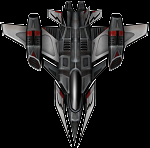
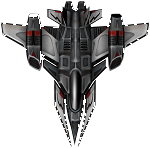
Added fighter 4. See Level 1 for example.

diff --git a/GameApp/src/gameapp/Enemy/Villain.java b/GameApp/src/gameapp/Enemy/Villain.java
@@ -5,14 +5,14 @@ package gameapp.Enemy;
  * @author Kurt
  */
 public class Villain {
-    private static final String[] NAME = {"Fighter1", "Fighter2", "Boss1"};
-    private static final int[] LEVEL = {0, 1, 2};
-    private static final double[] RUN = {3.5, 3.0, 2.0};
-    private static final double[] RISE = {0, 0, 0};
-    private static final int[] HEALTH = {200, 300, 5000};
-    private static final double[] FIRE_RATE = {0.98, 0.95, 0.95};
-    private static final int[] WEAPON = {0, 0, 0};
-    //private int damage[] = {20, 35};
+    private static final String[] NAME = {"Fighter1", "Fighter2", "Boss1", "Fighter4"};
+    private static final int[] LEVEL = {0, 1, 2, 0};
+    private static final double[] RUN = {3.5, 3.0, 2.0, 4.5};
+    private static final double[] RISE = {0, 0, 0, 0};
+    private static final int[] HEALTH = {200, 300, 5000, 100};
+    private static final double[] FIRE_RATE = {0.98, 0.95, 0.95, 0.98};
+    private static final int[] WEAPON = {0, 0, 0, 0};
+    private static final int[] DAMAGE = {20, 20, 25, 10};
     
     public static String getEnemyName(int type){
         return NAME[type];
@@ -41,9 +41,10 @@ public class Villain {
     public static int getWeapon(int type){
         return WEAPON[type];
     }
-    /*public int getDamage(int type){
-        return damage[type];
-    }*/
+    
+    public int getDamage(int type){
+        return DAMAGE[type];
+    }
     
     public static int getEnemyCount(){
         return NAME.length;

diff --git a/GameApp/src/gameapp/General/GameField.java b/GameApp/src/gameapp/General/GameField.java
@@ -5,6 +5,7 @@ import gameapp.Projectile.Buff;
 import gameapp.Effect.Effect;
 import gameapp.Enemy.Enemy;
 import gameapp.Enemy.Boss;
+import gameapp.Enemy.Fighter4;
 import gameapp.Player.Player;
 import gameapp.Projectile.Projectile;
 import gameapp.Projectile.Powerup;
@@ -90,10 +91,16 @@ public final class GameField extends JPanel implements KeyListener {
     }
 
     public void addEnemy(int type) {
-        if(type == 2){
-            enemies.add(new Boss(getWidth(), getHeight(), type));
-        } else {
-            enemies.add(new Enemy(getWidth(), getHeight(), type));
+        switch (type) {
+            case 2:
+                enemies.add(new Boss(getWidth(), getHeight(), type));
+                break;
+            case 3:
+                enemies.add(new Fighter4(getWidth(), getHeight(), type));
+                break;
+            default:
+                enemies.add(new Enemy(getWidth(), getHeight(), type));
+                break;
         }
     }
 
@@ -164,7 +171,8 @@ public final class GameField extends JPanel implements KeyListener {
         int action = enemy.update();
 
         if (action == 1) {
-            projectiles.add(enemy.shootProjectile());
+            //projectiles.add(enemy.shootProjectile());
+            enemy.shootProjectile();
         }
     }
 

diff --git a/GameApp/src/gameapp/Enemy/Fighter4.java b/GameApp/src/gameapp/Enemy/Fighter4.java
@@ -1,0 +1,29 @@
+
+package gameapp.Enemy;
+
+import gameapp.General.Entity;
+import gameapp.General.GameField;
+import gameapp.Projectile.Projectile;
+import java.awt.Rectangle;
+
+/**
+ *
+ * @author Kurt
+ */
+public class Fighter4 extends Enemy {
+    
+    public Fighter4(int panelWidth, int panelHeight, int type) {
+        super(panelWidth, panelHeight, type);
+    }
+    
+    @Override
+    public boolean isHit(Entity entity){
+        return new Rectangle(getX(), getY()+getHeight()/4, getWidth(), getHeight()/2).intersects(entity.getBoundingBox());
+    }
+    
+    @Override
+    public void shootProjectile(){
+        GameField.projectiles.add(new Projectile(getX(), getY()+getHeight(), false));
+        GameField.projectiles.add(new Projectile(getX()+getWidth(), getY()+getHeight(), false));
+    }
+}

diff --git a/GameApp/src/gameapp/Enemy/Enemy.java b/GameApp/src/gameapp/Enemy/Enemy.java
@@ -2,6 +2,7 @@
 package gameapp.Enemy;
 
 import gameapp.General.Entity;
+import gameapp.General.GameField;
 import gameapp.Projectile.Projectile;
 import gameapp.General.Ship;
 import java.awt.Graphics;
@@ -66,8 +67,8 @@ public class Enemy extends Ship{
         return action > Villain.getFireRate(getType()) ? 1 : 0;
     }
     
-    public Projectile shootProjectile(){
-        return new Projectile(getX()+(getWidth()/2), getY()+getHeight(), false);
+    public void shootProjectile(){
+        GameField.projectiles.add(new Projectile(getX()+(getWidth()/2), getY()+getHeight(), false));
     }
     
     //public boolean isHit(Projectile shot){

diff --git a/GameApp/src/gameapp/Enemy/Boss.java b/GameApp/src/gameapp/Enemy/Boss.java
@@ -28,6 +28,7 @@ public class Boss extends Enemy {
         //setWeapon(Villain.getWeapon(type));
         
         setWeaponCallbackIndex(Weapon.addShotCallback(new ShotCallback(){
+            @Override
             public ArrayList<Projectile> getShot(int x, int y, boolean up) {
                 ArrayList<Projectile> weaponShots = new ArrayList<>();
                 

diff --git a/GameApp/src/gameapp/Projectile/ShotCallback.java b/GameApp/src/gameapp/Projectile/ShotCallback.java
@@ -4,8 +4,6 @@
  * and open the template in the editor.
  */
 package gameapp.Projectile;
-
-import gameapp.Projectile.Projectile;
 import java.util.ArrayList;
 
 /**
